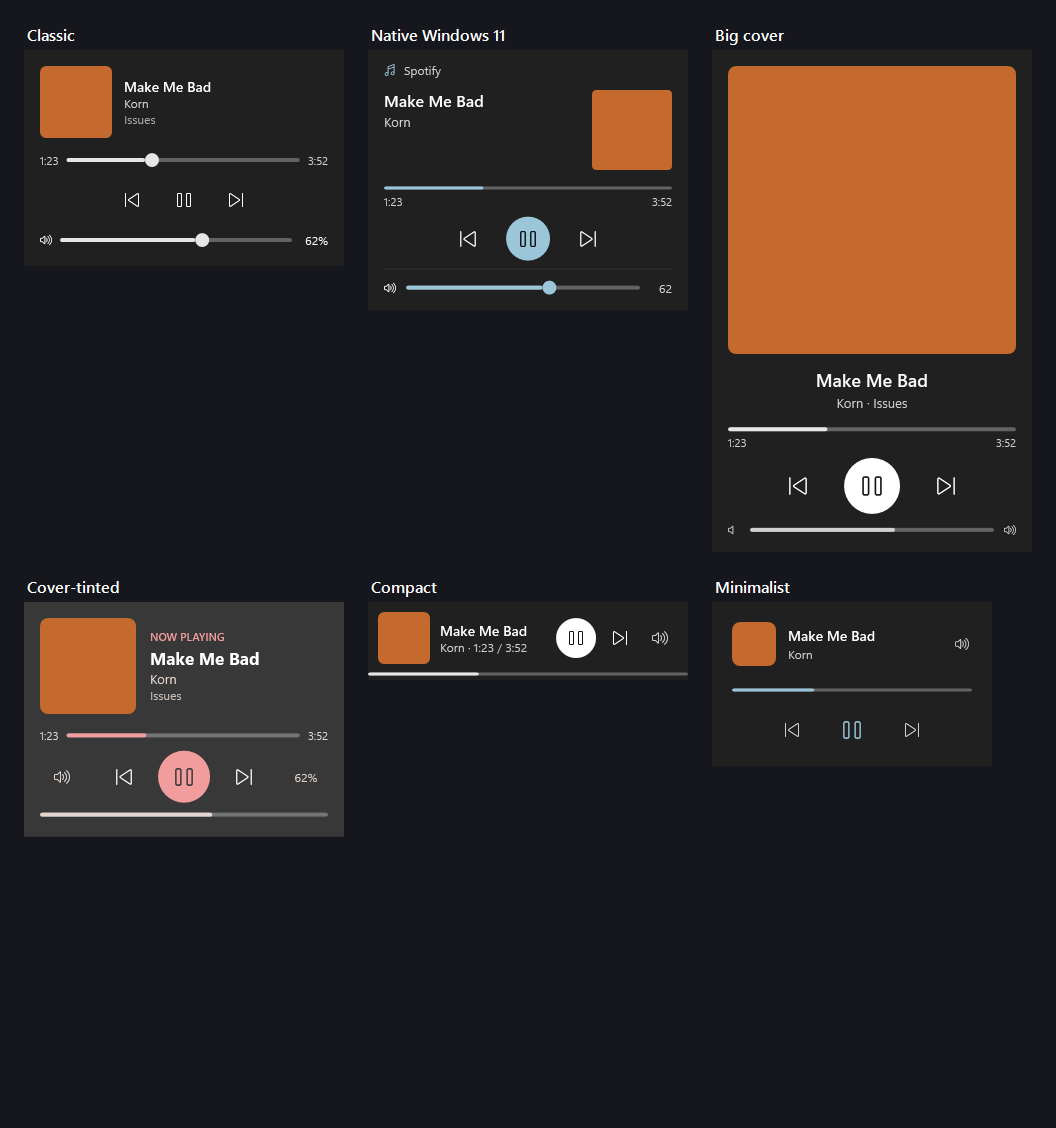
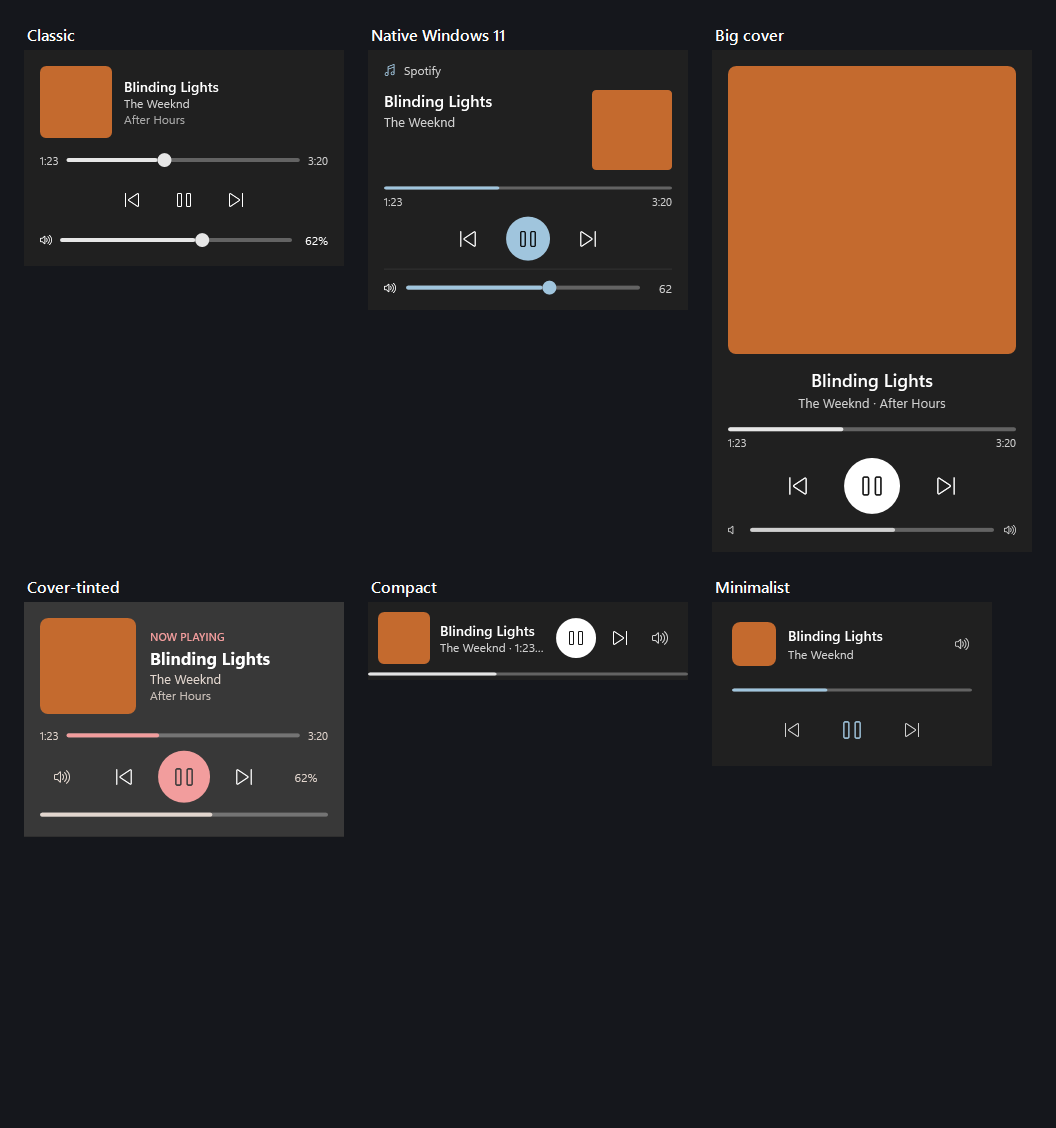
docs: sample song in README change

diff --git a/Auxline.Tests/FlyoutStyleRenderTests.cs b/Auxline.Tests/FlyoutStyleRenderTests.cs
@@ -145,18 +145,18 @@ public sealed class FlyoutStyleRenderTests
     /// <summary>The properties the styles bind to, with realistic values (bindings work by name on any object).</summary>
     private sealed class SamplePlayer
     {
-        public string Title => "Make Me Bad";
-        public string Artist => "Korn";
-        public string Album => "Issues";
+        public string Title => "Blinding Lights";
+        public string Artist => "The Weeknd";
+        public string Album => "After Hours";
         public string SourceName => "Spotify";
         public BitmapSource Cover { get; } = SolidCover(Color.FromRgb(196, 106, 46));
         public bool IsPlaying => true;
         public bool HasTimeline => true;
         public bool CanSeek => true;
         public double PositionSeconds { get; set; } = 83;
-        public double DurationSeconds => 232;
+        public double DurationSeconds => 200;
         public string PositionText => "1:23";
-        public string DurationText => "3:52";
+        public string DurationText => "3:20";
         public double VolumePercent { get; set; } = 62;
         public bool HasAudioSession => true;
 
